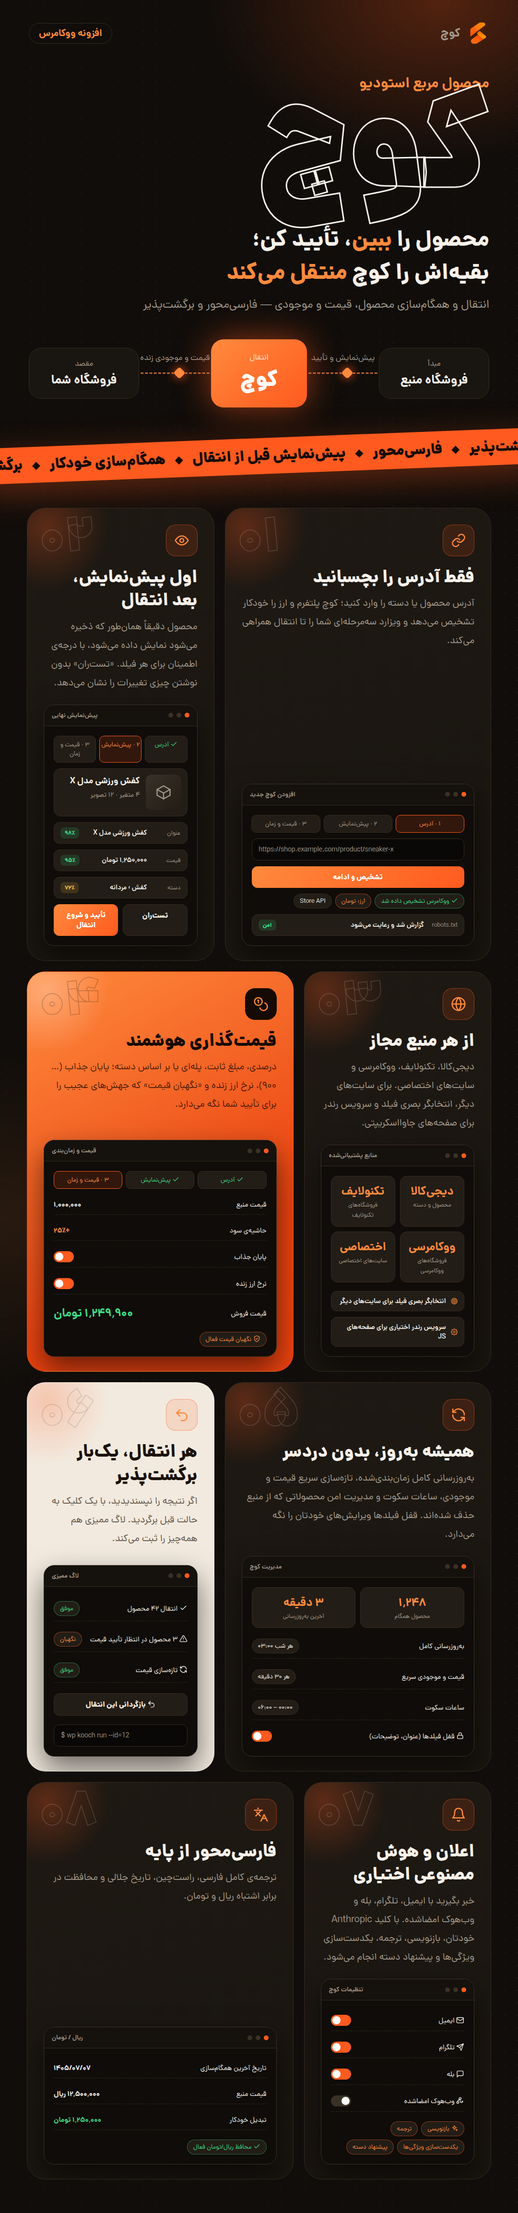
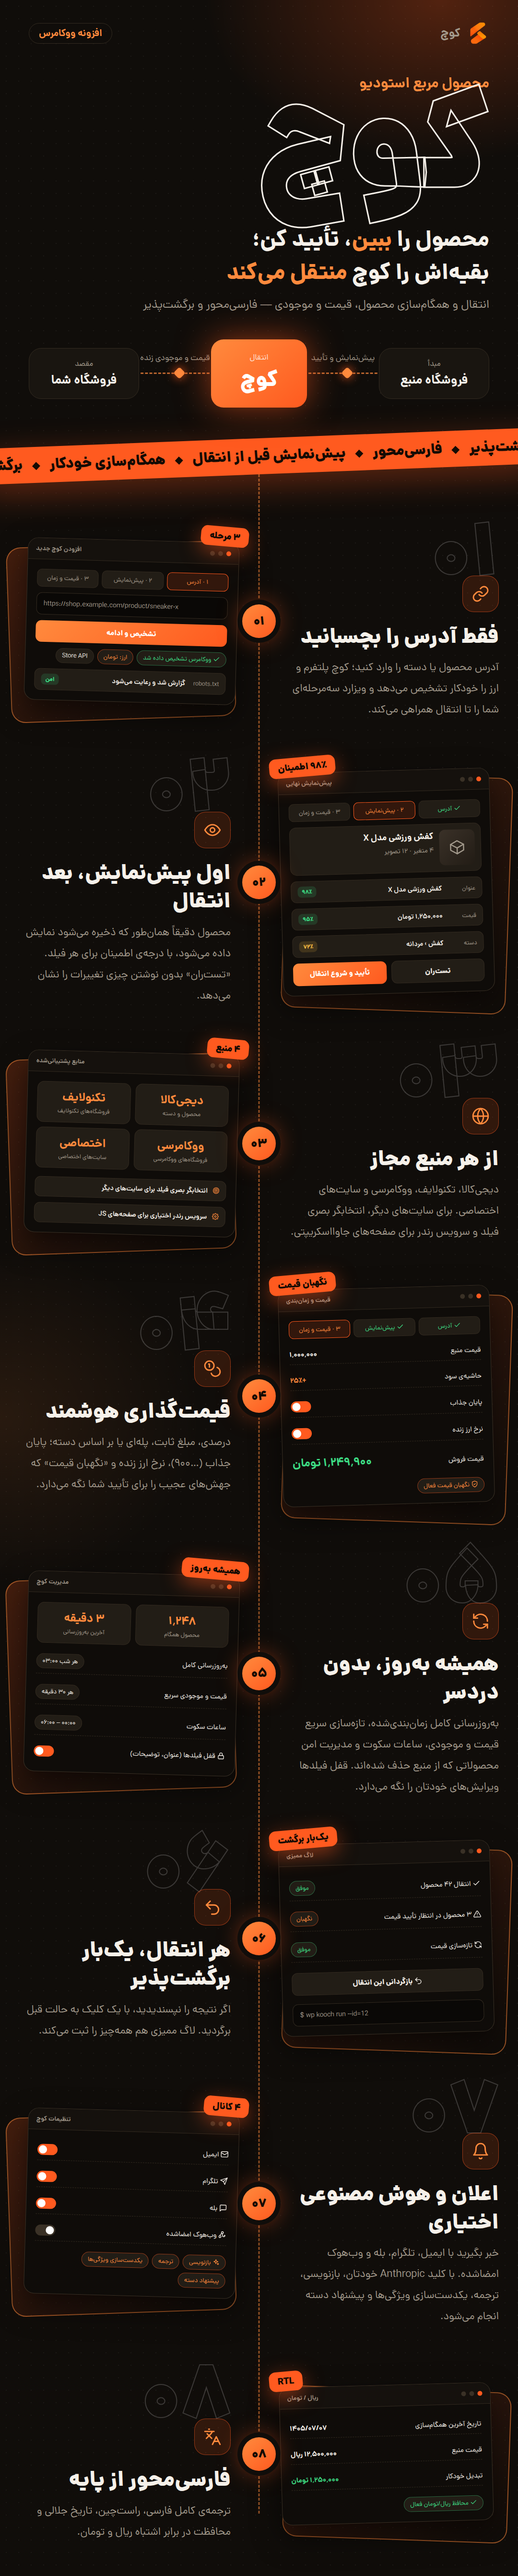
Kooch showcase: sequential rows on a migration route line
Claude-Session: https://claude.ai/code/session_01HjGiyHhZHcoV6ExRpRRqKD

diff --git a/kooch-showcase/index.html b/kooch-showcase/index.html
@@ -44,25 +44,26 @@ body{background:var(--bg);color:var(--tx);font-family:Dana,Tahoma,sans-serif;ove
 .ribbon{margin:64px -40px 0;background:var(--o);color:#150b04;font-weight:900;font-size:30px;padding:16px 0;transform:rotate(-2.2deg);white-space:nowrap;text-align:center;letter-spacing:.3px;box-shadow:0 20px 70px rgba(255,90,31,.35)}
 .ribbon i{display:inline-block;width:12px;height:12px;background:#150b04;transform:rotate(45deg);margin:0 22px}
 
-/* bento */
-.grid{display:grid;grid-template-columns:repeat(12,1fr);gap:22px;padding:70px 56px 0}
-.card{grid-column:span 6;position:relative;background:linear-gradient(160deg,#1e1913,var(--card));border:1px solid var(--line);border-radius:38px;padding:34px 34px 30px;display:flex;flex-direction:column;overflow:hidden}
-.card::before{content:"";position:absolute;width:260px;height:260px;left:-90px;top:-90px;background:radial-gradient(circle,rgba(255,90,31,.28),transparent 70%)}
-.s7{grid-column:span 7}.s5{grid-column:span 5}
-.num{position:absolute;left:26px;top:14px;font-size:96px;font-weight:950;color:transparent;-webkit-text-stroke:1.5px rgba(255,255,255,.16);line-height:1;pointer-events:none}
-.ico{width:66px;height:66px;border-radius:20px;display:grid;place-items:center;background:rgba(255,90,31,.14);border:1px solid rgba(255,90,31,.45);color:var(--o2);margin-bottom:20px;position:relative}
-.ico .i{width:32px;height:32px;stroke-width:1.9}
-.card h2{font-size:36px;font-weight:850;line-height:1.35;position:relative}
-.card p{font-size:20px;color:var(--mu);line-height:1.95;margin-top:10px;position:relative;margin-bottom:26px}
-.card.hot{background:linear-gradient(150deg,var(--o2),#ea4210 70%);border-color:transparent}
-.card.hot::before{background:radial-gradient(circle,rgba(255,255,255,.3),transparent 70%)}
-.card.hot p{color:rgba(20,8,2,.78)}.card.hot h2{color:#150b04}
-.card.hot .ico{background:#150b04;border-color:#150b04;color:var(--o2)}
-.card.hot .num{-webkit-text-stroke-color:rgba(20,8,2,.25)}
-.card.cream{background:var(--cream);border-color:transparent}
-.card.cream::before{background:radial-gradient(circle,rgba(255,90,31,.25),transparent 70%)}
-.card.cream h2{color:#1a120b}.card.cream p{color:#5f5446}
-.card.cream .num{-webkit-text-stroke-color:rgba(26,18,11,.16)}
+/* rows */
+.rows{position:relative;padding:20px 40px 0}
+.rows::before{content:"";position:absolute;left:50%;top:0;bottom:60px;border-left:3px dashed rgba(255,138,61,.55);transform:translateX(-1.5px)}
+.row{display:flex;align-items:center;gap:90px;margin-top:80px;position:relative}
+.row.alt{flex-direction:row-reverse}
+.row>.txt,.row>.stage{flex:1;min-width:0}
+.dot{position:absolute;left:50%;top:50%;transform:translate(-50%,-50%);width:70px;height:70px;border-radius:50%;background:linear-gradient(140deg,var(--o2),var(--o));color:#150b04;font-size:26px;font-weight:900;display:grid;place-items:center;box-shadow:0 0 0 10px var(--bg),0 0 50px rgba(255,90,31,.6);z-index:3}
+.txt{position:relative}
+.num{font-size:150px;font-weight:950;line-height:.9;color:transparent;-webkit-text-stroke:2px rgba(255,255,255,.18);margin-bottom:-24px}
+.ico{width:76px;height:76px;border-radius:24px;display:grid;place-items:center;background:rgba(255,90,31,.14);border:1px solid rgba(255,90,31,.5);color:var(--o2);margin-bottom:22px;position:relative}
+.ico .i{width:38px;height:38px;stroke-width:1.8}
+.txt h2{font-size:44px;font-weight:900;line-height:1.35}
+.txt p{font-size:22px;color:var(--mu);line-height:2;margin-top:12px}
+.stage{position:relative;padding:14px}
+.stack{position:absolute;inset:0;border-radius:30px;border:2px solid rgba(255,138,61,.55);transform:translate(-22px,22px) rotate(-2deg);background:linear-gradient(140deg,rgba(255,90,31,.22),transparent)}
+.alt .stack{transform:translate(22px,22px) rotate(2deg)}
+.stage .panel{transform:rotate(1.6deg)}
+.alt .stage .panel{transform:rotate(-1.6deg)}
+.tag{position:absolute;top:-14px;right:-10px;background:var(--o);color:#150b04;font-weight:900;font-size:19px;padding:7px 18px;border-radius:14px;transform:rotate(5deg);box-shadow:0 12px 40px rgba(255,90,31,.5);z-index:4}
+.alt .tag{right:auto;left:-10px;transform:rotate(-5deg)}
 
 /* panel mock */
 .panel{margin-top:auto;background:#0f0c09;border:1px solid #3a3126;border-radius:22px;overflow:hidden;box-shadow:0 26px 60px rgba(0,0,0,.55);position:relative}
@@ -120,40 +121,49 @@ body{background:var(--bg);color:var(--tx);font-family:Dana,Tahoma,sans-serif;ove
 
 <div class="ribbon">برگشتپذیر<i></i>فارسیمحور<i></i>پیشنمایش قبل از انتقال<i></i>همگامسازی خودکار<i></i>برگشتپذیر</div>
 
-<main class="grid">
-<article class="card s7 ">
-  <div class="num">۰۱</div>
-  <div class="ico"><svg class="i"><use href="#i-link"/></svg></div>
-  <h2>فقط آدرس را بچسبانید</h2>
-  <p>آدرس محصول یا دسته را وارد کنید؛ کوچ پلتفرم و ارز را خودکار تشخیص میدهد و ویزارد سهمرحلهای شما را تا انتقال همراهی میکند.</p>
-  <div class="panel"><div class="bar"><i></i><i></i><i></i><b>افزودن کوچ جدید</b></div><div class="body">
+<main class="rows">
+<section class="row ">
+  <div class="dot">۰۱</div>
+  <div class="txt">
+    <div class="num">۰۱</div>
+    <div class="ico"><svg class="i"><use href="#i-link"/></svg></div>
+    <h2>فقط آدرس را بچسبانید</h2>
+    <p>آدرس محصول یا دسته را وارد کنید؛ کوچ پلتفرم و ارز را خودکار تشخیص میدهد و ویزارد سهمرحلهای شما را تا انتقال همراهی میکند.</p>
+  </div>
+  <div class="stage"><div class="stack"></div><div class="panel"><div class="bar"><i></i><i></i><i></i><b>افزودن کوچ جدید</b></div><div class="body">
         <div class="steps"><div class="on">۱ · آدرس</div><div>۲ · پیشنمایش</div><div>۳ · قیمت و زمان</div></div>
         <div class="input">https://shop.example.com/product/sneaker-x</div>
         <div class="btn">تشخیص و ادامه</div>
         <div class="chips"><span class="chip ok"><svg class="i"><use href="#i-check"/></svg> ووکامرس تشخیص داده شد</span><span class="chip o">ارز: تومان</span><span class="chip">Store API</span></div>
         <div class="fld"><span class="l">robots.txt</span><span class="v">گزارش شد و رعایت میشود</span><span class="conf h">امن</span></div>
-      </div></div>
-</article>
-<article class="card s5 ">
-  <div class="num">۰۲</div>
-  <div class="ico"><svg class="i"><use href="#i-eye"/></svg></div>
-  <h2>اول پیشنمایش، بعد انتقال</h2>
-  <p>محصول دقیقاً همانطور که ذخیره میشود نمایش داده میشود، با درجهی اطمینان برای هر فیلد. «تستران» بدون نوشتن چیزی تغییرات را نشان میدهد.</p>
-  <div class="panel"><div class="bar"><i></i><i></i><i></i><b>پیشنمایش نهایی</b></div><div class="body">
+      </div></div><div class="tag">۳ مرحله</div></div>
+</section>
+<section class="row alt">
+  <div class="dot">۰۲</div>
+  <div class="txt">
+    <div class="num">۰۲</div>
+    <div class="ico"><svg class="i"><use href="#i-eye"/></svg></div>
+    <h2>اول پیشنمایش، بعد انتقال</h2>
+    <p>محصول دقیقاً همانطور که ذخیره میشود نمایش داده میشود، با درجهی اطمینان برای هر فیلد. «تستران» بدون نوشتن چیزی تغییرات را نشان میدهد.</p>
+  </div>
+  <div class="stage"><div class="stack"></div><div class="panel"><div class="bar"><i></i><i></i><i></i><b>پیشنمایش نهایی</b></div><div class="body">
         <div class="steps"><div class="done"><svg class="i"><use href="#i-check"/></svg> آدرس</div><div class="on">۲ · پیشنمایش</div><div>۳ · قیمت و زمان</div></div>
         <div class="prod"><div class="im"><svg class="i"><use href="#i-box"/></svg></div><div style="flex:1"><b style="font-size:18px">کفش ورزشی مدل X</b><div style="color:var(--mu);font-size:14px;margin-top:6px">۴ متغیر · ۱۲ تصویر</div></div></div>
         <div class="fld"><span class="l">عنوان</span><span class="v">کفش ورزشی مدل X</span><span class="conf h">۹۸٪</span></div>
         <div class="fld"><span class="l">قیمت</span><span class="v">۱٬۲۵۰٬۰۰۰ تومان</span><span class="conf h">۹۵٪</span></div>
         <div class="fld"><span class="l">دسته</span><span class="v">کفش › مردانه</span><span class="conf m">۷۲٪</span></div>
         <div class="grid2"><div class="btn g">تستران</div><div class="btn">تأیید و شروع انتقال</div></div>
-      </div></div>
-</article>
-<article class="card s5 ">
-  <div class="num">۰۳</div>
-  <div class="ico"><svg class="i"><use href="#i-globe"/></svg></div>
-  <h2>از هر منبع مجاز</h2>
-  <p>دیجیکالا، تکنولایف، ووکامرسی و سایتهای اختصاصی. برای سایتهای دیگر، انتخابگر بصری فیلد و سرویس رندر برای صفحههای جاوااسکریپتی.</p>
-  <div class="panel"><div class="bar"><i></i><i></i><i></i><b>منابع پشتیبانیشده</b></div><div class="body">
+      </div></div><div class="tag">۹۸٪ اطمینان</div></div>
+</section>
+<section class="row ">
+  <div class="dot">۰۳</div>
+  <div class="txt">
+    <div class="num">۰۳</div>
+    <div class="ico"><svg class="i"><use href="#i-globe"/></svg></div>
+    <h2>از هر منبع مجاز</h2>
+    <p>دیجیکالا، تکنولایف، ووکامرسی و سایتهای اختصاصی. برای سایتهای دیگر، انتخابگر بصری فیلد و سرویس رندر برای صفحههای جاوااسکریپتی.</p>
+  </div>
+  <div class="stage"><div class="stack"></div><div class="panel"><div class="bar"><i></i><i></i><i></i><b>منابع پشتیبانیشده</b></div><div class="body">
         <div class="grid2">
           <div class="tile"><b>دیجیکالا</b><span>محصول و دسته</span></div>
           <div class="tile"><b>تکنولایف</b><span>فروشگاههای تکنولایف</span></div>
@@ -162,14 +172,17 @@ body{background:var(--bg);color:var(--tx);font-family:Dana,Tahoma,sans-serif;ove
         </div>
         <div class="fld" style="margin-top:6px"><span class="l" style="width:auto"><svg class="i"><use href="#i-target"/></svg></span><span class="v">انتخابگر بصری فیلد برای سایتهای دیگر</span></div>
         <div class="fld"><span class="l" style="width:auto"><svg class="i"><use href="#i-cog"/></svg></span><span class="v">سرویس رندر اختیاری برای صفحههای JS</span></div>
-      </div></div>
-</article>
-<article class="card s7 hot">
-  <div class="num">۰۴</div>
-  <div class="ico"><svg class="i"><use href="#i-coins"/></svg></div>
-  <h2>قیمتگذاری هوشمند</h2>
-  <p>درصدی، مبلغ ثابت، پلهای یا بر اساس دسته؛ پایان جذاب (…۹۰۰)، نرخ ارز زنده و «نگهبان قیمت» که جهشهای عجیب را برای تأیید شما نگه میدارد.</p>
-  <div class="panel"><div class="bar"><i></i><i></i><i></i><b>قیمت و زمانبندی</b></div><div class="body">
+      </div></div><div class="tag">۴ منبع</div></div>
+</section>
+<section class="row alt">
+  <div class="dot">۰۴</div>
+  <div class="txt">
+    <div class="num">۰۴</div>
+    <div class="ico"><svg class="i"><use href="#i-coins"/></svg></div>
+    <h2>قیمتگذاری هوشمند</h2>
+    <p>درصدی، مبلغ ثابت، پلهای یا بر اساس دسته؛ پایان جذاب (…۹۰۰)، نرخ ارز زنده و «نگهبان قیمت» که جهشهای عجیب را برای تأیید شما نگه میدارد.</p>
+  </div>
+  <div class="stage"><div class="stack"></div><div class="panel"><div class="bar"><i></i><i></i><i></i><b>قیمت و زمانبندی</b></div><div class="body">
         <div class="steps"><div class="done"><svg class="i"><use href="#i-check"/></svg> آدرس</div><div class="done"><svg class="i"><use href="#i-check"/></svg> پیشنمایش</div><div class="on">۳ · قیمت و زمان</div></div>
         <div class="line"><span>قیمت منبع</span><b>۱٬۰۰۰٬۰۰۰</b></div>
         <div class="line"><span>حاشیهی سود</span><b style="color:var(--o2)">+۲۵٪</b></div>
@@ -177,59 +190,71 @@ body{background:var(--bg);color:var(--tx);font-family:Dana,Tahoma,sans-serif;ove
         <div class="line"><span>نرخ ارز زنده</span><span class="tgl"></span></div>
         <div class="line" style="border:0"><span>قیمت فروش</span><b style="font-size:24px;color:var(--ok)">۱٬۲۴۹٬۹۰۰ تومان</b></div>
         <div class="chip o" style="align-self:flex-start"><svg class="i"><use href="#i-shield"/></svg> نگهبان قیمت فعال</div>
-      </div></div>
-</article>
-<article class="card s7 ">
-  <div class="num">۰۵</div>
-  <div class="ico"><svg class="i"><use href="#i-refresh"/></svg></div>
-  <h2>همیشه بهروز، بدون دردسر</h2>
-  <p>بهروزرسانی کامل زمانبندیشده، تازهسازی سریع قیمت و موجودی، ساعات سکوت و مدیریت امن محصولاتی که از منبع حذف شدهاند. قفل فیلدها ویرایشهای خودتان را نگه میدارد.</p>
-  <div class="panel"><div class="bar"><i></i><i></i><i></i><b>مدیریت کوچ</b></div><div class="body">
+      </div></div><div class="tag">نگهبان قیمت</div></div>
+</section>
+<section class="row ">
+  <div class="dot">۰۵</div>
+  <div class="txt">
+    <div class="num">۰۵</div>
+    <div class="ico"><svg class="i"><use href="#i-refresh"/></svg></div>
+    <h2>همیشه بهروز، بدون دردسر</h2>
+    <p>بهروزرسانی کامل زمانبندیشده، تازهسازی سریع قیمت و موجودی، ساعات سکوت و مدیریت امن محصولاتی که از منبع حذف شدهاند. قفل فیلدها ویرایشهای خودتان را نگه میدارد.</p>
+  </div>
+  <div class="stage"><div class="stack"></div><div class="panel"><div class="bar"><i></i><i></i><i></i><b>مدیریت کوچ</b></div><div class="body">
         <div class="grid2"><div class="tile"><b>۱٬۲۴۸</b><span>محصول همگام</span></div><div class="tile"><b>۳ دقیقه</b><span>آخرین بهروزرسانی</span></div></div>
         <div class="line"><span>بهروزرسانی کامل</span><span class="chip">هر شب ۰۳:۰۰</span></div>
         <div class="line"><span>قیمت و موجودی سریع</span><span class="chip">هر ۳۰ دقیقه</span></div>
         <div class="line"><span>ساعات سکوت</span><span class="chip">۰۰:۰۰ – ۰۶:۰۰</span></div>
         <div class="line" style="border:0"><span><svg class="i"><use href="#i-lock"/></svg> قفل فیلدها (عنوان، توضیحات)</span><span class="tgl"></span></div>
-      </div></div>
-</article>
-<article class="card s5 cream">
-  <div class="num">۰۶</div>
-  <div class="ico"><svg class="i"><use href="#i-undo"/></svg></div>
-  <h2>هر انتقال، یکبار برگشتپذیر</h2>
-  <p>اگر نتیجه را نپسندیدید، با یک کلیک به حالت قبل برگردید. لاگ ممیزی هم همهچیز را ثبت میکند.</p>
-  <div class="panel"><div class="bar"><i></i><i></i><i></i><b>لاگ ممیزی</b></div><div class="body">
+      </div></div><div class="tag">همیشه بهروز</div></div>
+</section>
+<section class="row alt">
+  <div class="dot">۰۶</div>
+  <div class="txt">
+    <div class="num">۰۶</div>
+    <div class="ico"><svg class="i"><use href="#i-undo"/></svg></div>
+    <h2>هر انتقال، یکبار برگشتپذیر</h2>
+    <p>اگر نتیجه را نپسندیدید، با یک کلیک به حالت قبل برگردید. لاگ ممیزی هم همهچیز را ثبت میکند.</p>
+  </div>
+  <div class="stage"><div class="stack"></div><div class="panel"><div class="bar"><i></i><i></i><i></i><b>لاگ ممیزی</b></div><div class="body">
         <div class="line"><span><svg class="i"><use href="#i-check"/></svg> انتقال ۴۲ محصول</span><span class="chip ok">موفق</span></div>
         <div class="line"><span><svg class="i"><use href="#i-alert"/></svg> ۳ محصول در انتظار تأیید قیمت</span><span class="chip o">نگهبان</span></div>
         <div class="line"><span><svg class="i"><use href="#i-refresh"/></svg> تازهسازی قیمت</span><span class="chip ok">موفق</span></div>
         <div class="btn g" style="margin-top:10px"><svg class="i"><use href="#i-undo"/></svg> بازگردانی این انتقال</div>
         <div class="input" style="margin-top:6px">$ wp kooch run --id=12</div>
-      </div></div>
-</article>
-<article class="card s5 ">
-  <div class="num">۰۷</div>
-  <div class="ico"><svg class="i"><use href="#i-bell"/></svg></div>
-  <h2>اعلان و هوش مصنوعی اختیاری</h2>
-  <p>خبر بگیرید با ایمیل، تلگرام، بله و وبهوک امضاشده. با کلید Anthropic خودتان، بازنویسی، ترجمه، یکدستسازی ویژگیها و پیشنهاد دسته انجام میشود.</p>
-  <div class="panel"><div class="bar"><i></i><i></i><i></i><b>تنظیمات کوچ</b></div><div class="body">
+      </div></div><div class="tag">یکبار برگشت</div></div>
+</section>
+<section class="row ">
+  <div class="dot">۰۷</div>
+  <div class="txt">
+    <div class="num">۰۷</div>
+    <div class="ico"><svg class="i"><use href="#i-bell"/></svg></div>
+    <h2>اعلان و هوش مصنوعی اختیاری</h2>
+    <p>خبر بگیرید با ایمیل، تلگرام، بله و وبهوک امضاشده. با کلید Anthropic خودتان، بازنویسی، ترجمه، یکدستسازی ویژگیها و پیشنهاد دسته انجام میشود.</p>
+  </div>
+  <div class="stage"><div class="stack"></div><div class="panel"><div class="bar"><i></i><i></i><i></i><b>تنظیمات کوچ</b></div><div class="body">
         <div class="line"><span><svg class="i"><use href="#i-mail"/></svg> ایمیل</span><span class="tgl"></span></div>
         <div class="line"><span><svg class="i"><use href="#i-send"/></svg> تلگرام</span><span class="tgl"></span></div>
         <div class="line"><span><svg class="i"><use href="#i-chat"/></svg> بله</span><span class="tgl"></span></div>
         <div class="line"><span><svg class="i"><use href="#i-hook"/></svg> وبهوک امضاشده</span><span class="tgl off"></span></div>
         <div class="chips" style="margin-top:8px"><span class="chip o"><svg class="i"><use href="#i-spark"/></svg> بازنویسی</span><span class="chip o">ترجمه</span><span class="chip o">یکدستسازی ویژگیها</span><span class="chip o">پیشنهاد دسته</span></div>
-      </div></div>
-</article>
-<article class="card s7 ">
-  <div class="num">۰۸</div>
-  <div class="ico"><svg class="i"><use href="#i-lang"/></svg></div>
-  <h2>فارسیمحور از پایه</h2>
-  <p>ترجمهی کامل فارسی، راستچین، تاریخ جلالی و محافظت در برابر اشتباه ریال و تومان.</p>
-  <div class="panel"><div class="bar"><i></i><i></i><i></i><b>ریال / تومان</b></div><div class="body">
+      </div></div><div class="tag">۴ کانال</div></div>
+</section>
+<section class="row alt">
+  <div class="dot">۰۸</div>
+  <div class="txt">
+    <div class="num">۰۸</div>
+    <div class="ico"><svg class="i"><use href="#i-lang"/></svg></div>
+    <h2>فارسیمحور از پایه</h2>
+    <p>ترجمهی کامل فارسی، راستچین، تاریخ جلالی و محافظت در برابر اشتباه ریال و تومان.</p>
+  </div>
+  <div class="stage"><div class="stack"></div><div class="panel"><div class="bar"><i></i><i></i><i></i><b>ریال / تومان</b></div><div class="body">
         <div class="line"><span>تاریخ آخرین همگامسازی</span><b>۱۴۰۵/۰۷/۰۷</b></div>
         <div class="line"><span>قیمت منبع</span><b>۱۲٬۵۰۰٬۰۰۰ ریال</b></div>
         <div class="line"><span>تبدیل خودکار</span><b style="color:var(--ok)">۱٬۲۵۰٬۰۰۰ تومان</b></div>
         <div class="chip ok" style="align-self:flex-start;margin-top:8px"><svg class="i"><use href="#i-check"/></svg> محافظ ریال/تومان فعال</div>
-      </div></div>
-</article>
+      </div></div><div class="tag">RTL</div></div>
+</section>
 </main>
 
 </div>
